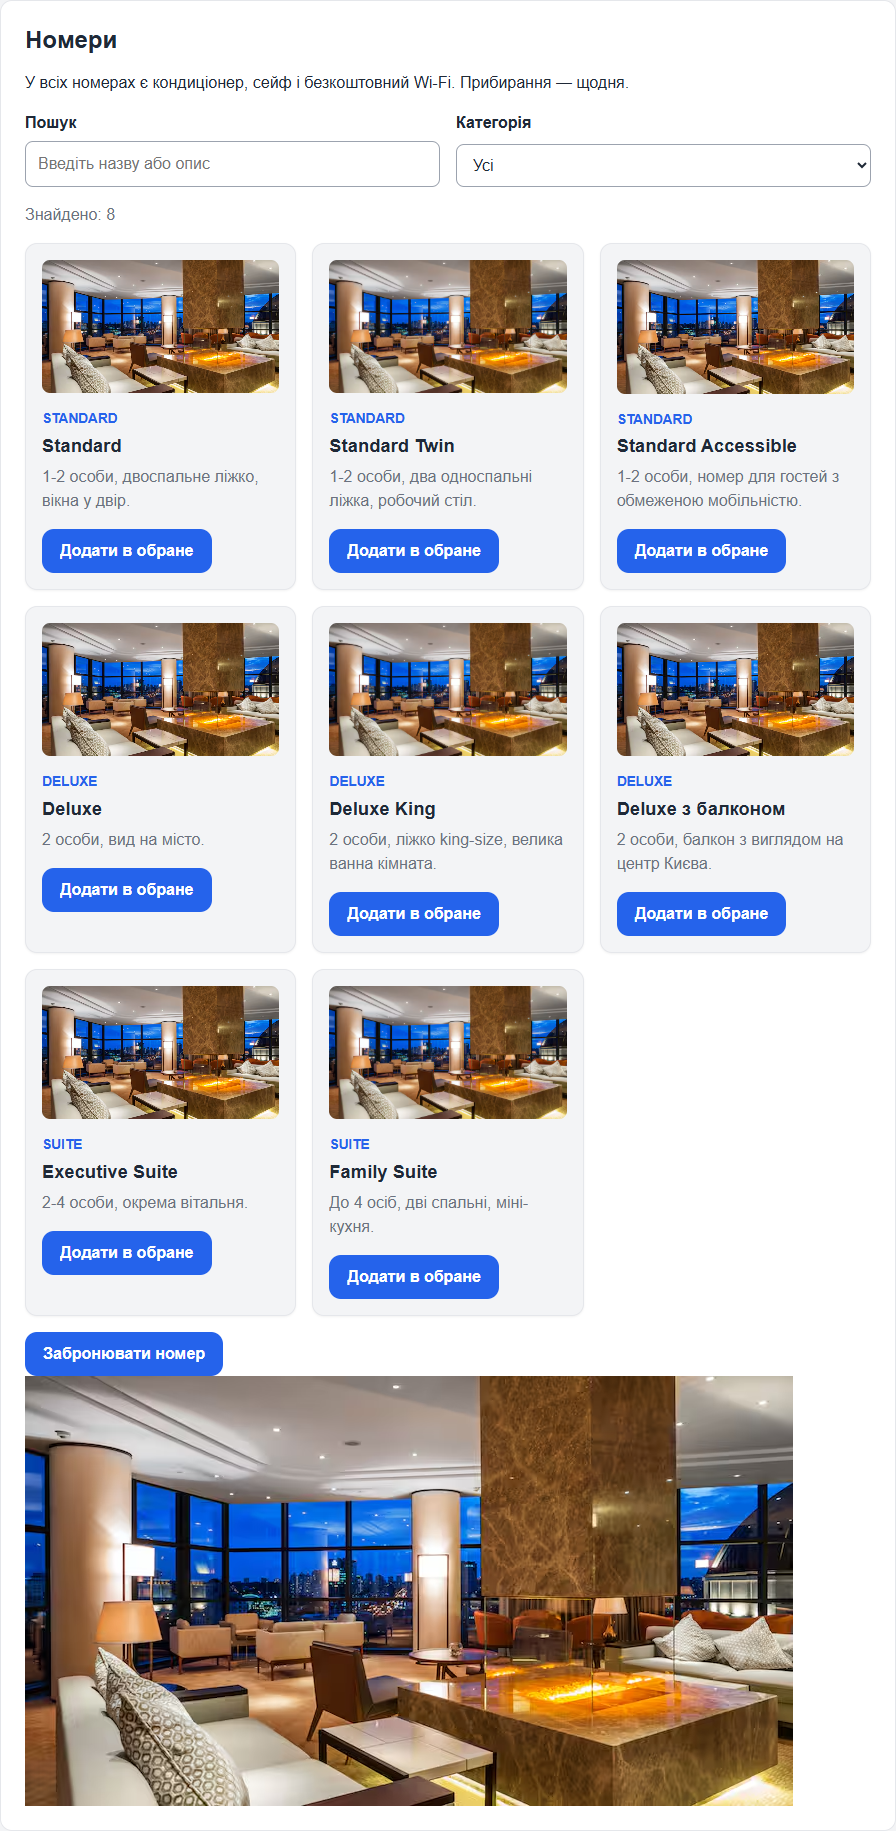
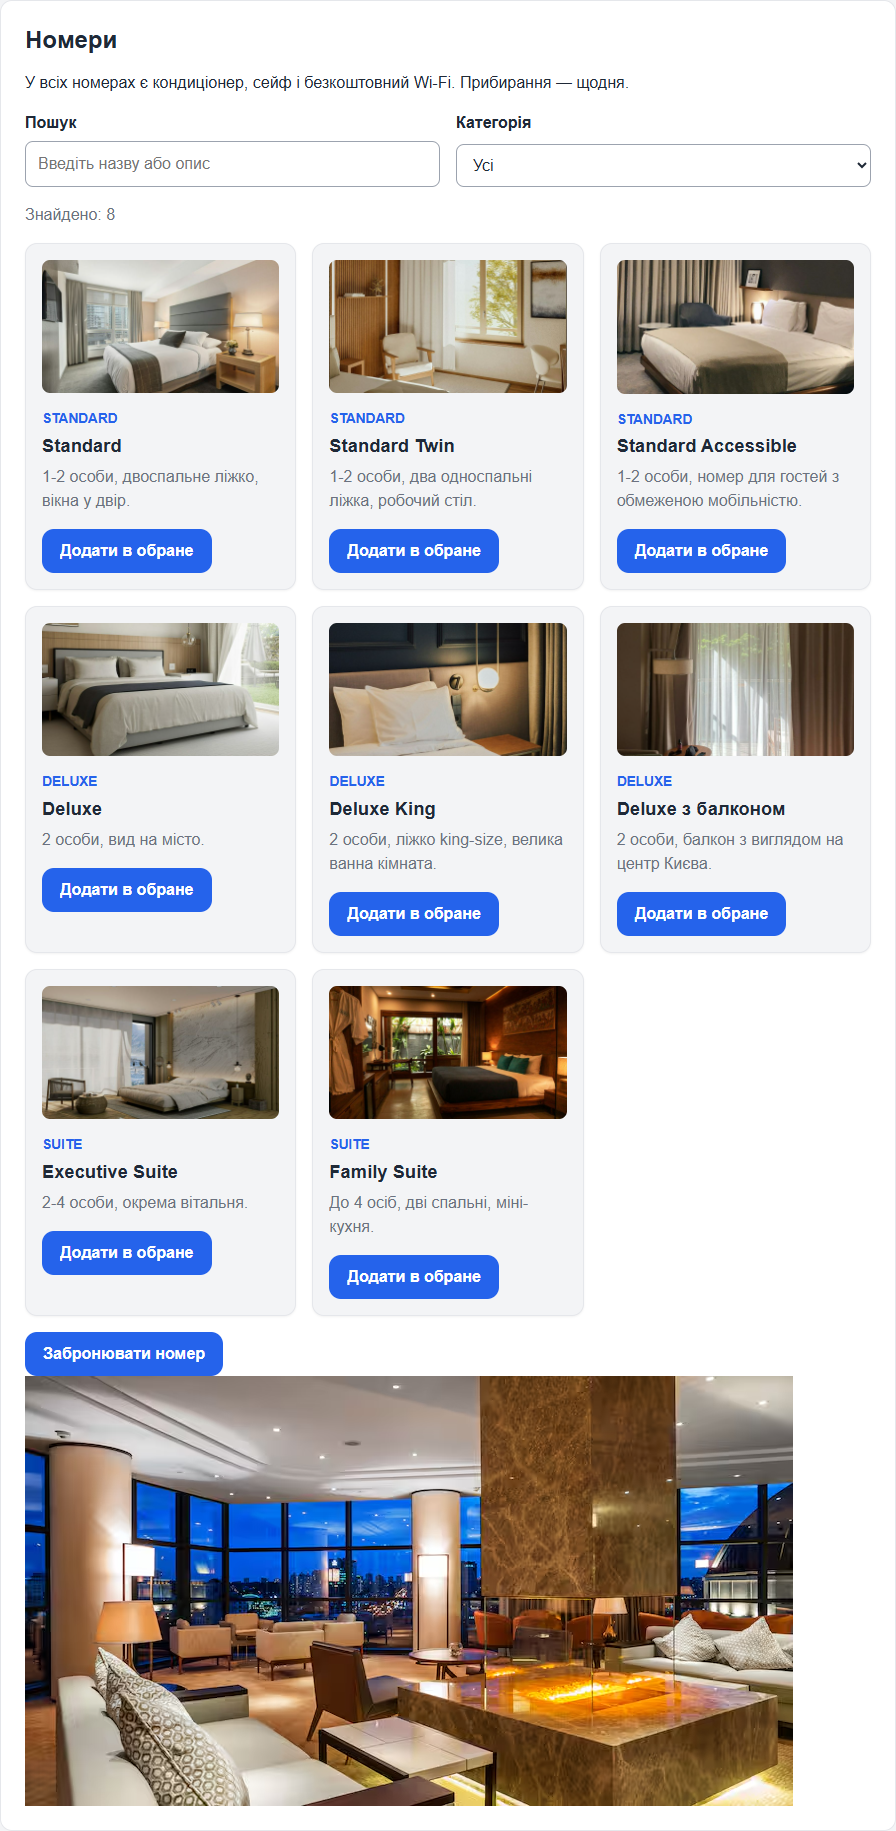
docs: update lab 6 screenshots and photo credits

diff --git a/README.md b/README.md
@@ -40,7 +40,7 @@
 | `deluxe` | Deluxe | Deluxe, Deluxe King, Deluxe з балконом |
 | `suite` | Suite | Executive Suite, Family Suite |
 
-Для всіх номерів використано одне зображення `room.avif`, бо інших фото в проєкті немає.
+Фото номерів узято з Unsplash (вільна ліцензія [Unsplash License](https://unsplash.com/license)), це ілюстративні фото готельних номерів, а не саме Hilton Kyiv. Автори: Point3D Commercial Imaging Ltd., Marcel Strauß, Linus Mimietz, João Emanuel, Lisha Riabinina, Hiram Huang, Nusrat Ali, visualsofdana. Фото обрізані до формату 16:9 і зменшені.
 
 ## Як це працює
 
@@ -80,7 +80,7 @@
 ## Обмеження
 
 - `innerHTML` використано лише для масиву, який написано в коді. Дані користувача через нього не підставляються.
-- Один файл зображення на всі номери.
+- Фото номерів ілюстративні, це не реальні номери Hilton Kyiv.
 - Стан не зберігається після перезавантаження сторінки.
 
 ## Посилання та висновок
